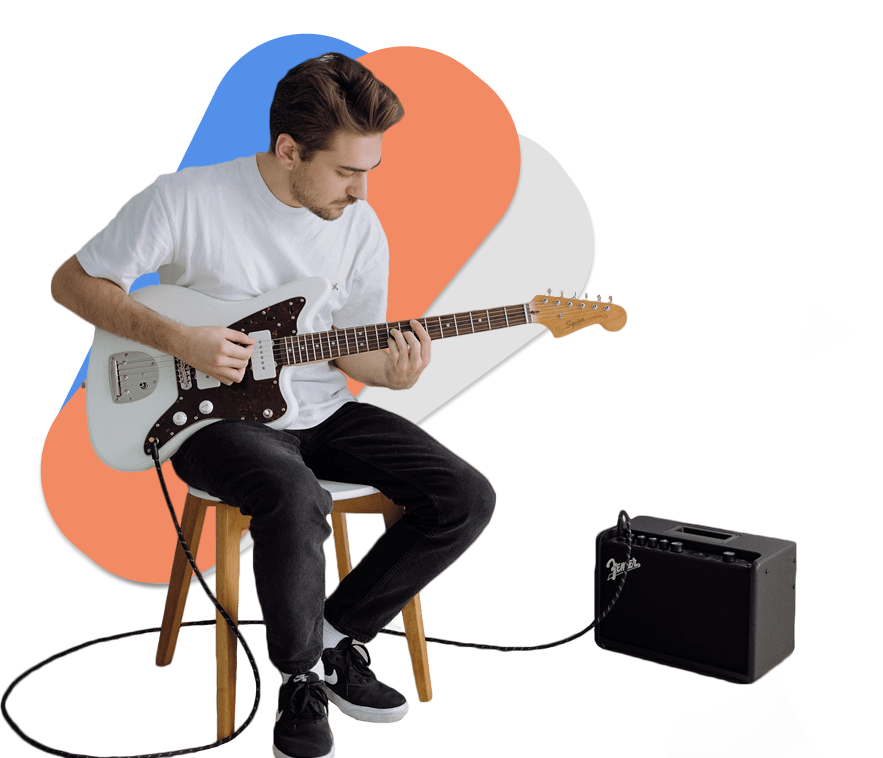
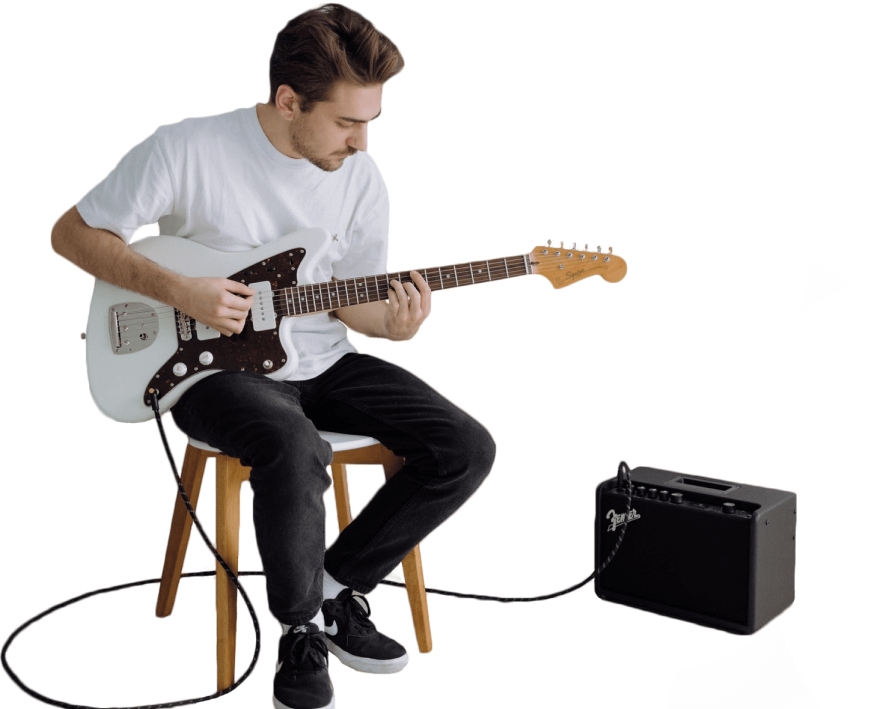
1233

diff --git a/sass/style.sass b/sass/style.sass
@@ -1,7 +1,7 @@
 *
     padding: 0
     margin: 0
-    box-sizing: 0
+    box-sizing: border-box
 
 $color-blue: #5290EA
 $color-orange: #F28B64
@@ -16,6 +16,8 @@ $background-color: #F0F0F0
     min-height: 800px
     background-color: $background-color
     padding-top: 16px
+    z-index: -5
+    position: relative
     &__logo
         width: 152px
     &__nav-container
@@ -23,6 +25,9 @@ $background-color: #F0F0F0
         justify-content: space-between
         align-items: center
         height: 70px
+    &__content-container
+        display: flex  
+
     
 .nav-menu
     &__list
@@ -34,4 +39,41 @@ $background-color: #F0F0F0
         list-style-type: none
     a
         text-decoration: none
-        color: #000000
+
+.left-wrapper
+    position: relative
+    &__rectangle-blue
+        position: absolute
+        height: 220px
+        width: 565.95px
+        background-color: $color-blue
+        transform: rotate(-64deg)
+        top: 200px
+        left: -100px
+        border-radius: 100px
+        filter: drop-shadow(-0.5rem 0.3rem 0.5rem rgba(0, 0, 0, 0.5))
+        z-index: -3
+    &__rectangle-orange
+        position: absolute
+        height: 220px
+        width: 618.43px
+        background-color: $color-orange
+        transform: rotate(-50.81deg)
+        top: 200px
+        left: -100px
+        border-radius: 100px
+        filter: drop-shadow(-0.5rem 0.3rem 0.5rem rgba(0, 0, 0, 0.5))
+    &__rectangle-grey
+        position: absolute
+        height: 220px
+        width: 608.97px
+        background-color: $color-grey
+        transform: rotate(-36.15deg)
+        top: 200px
+        left: -100px
+        border-radius: 100px
+        filter: drop-shadow(-0.5rem 0.3rem 0.5rem rgba(0, 0, 0, 0.5))
+        z-index: -2
+    &__img
+        z-index: 1
+        position: relative

diff --git a/css/style.css b/css/style.css
@@ -1,1 +1,1 @@
-*{padding:0;margin:0;box-sizing:0}.container{max-width:1140px;margin:0 auto}.main-section{min-height:800px;background-color:#f0f0f0;padding-top:16px}.main-section__logo{width:152px}.main-section__nav-container{display:flex;justify-content:space-between;align-items:center;height:70px}.nav-menu__list{display:flex;gap:64px}.nav-menu__list-item{font-size:18px;font-weight:600;list-style-type:none}.nav-menu a{text-decoration:none;color:#000}
+*{padding:0;margin:0;box-sizing:border-box}.container{max-width:1140px;margin:0 auto}.main-section{min-height:800px;background-color:#f0f0f0;padding-top:16px;z-index:-5;position:relative}.main-section__logo{width:152px}.main-section__nav-container{display:flex;justify-content:space-between;align-items:center;height:70px}.main-section__content-container{display:flex}.nav-menu__list{display:flex;gap:64px}.nav-menu__list-item{font-size:18px;font-weight:600;list-style-type:none}.nav-menu a{text-decoration:none}.left-wrapper{position:relative}.left-wrapper__rectangle-blue{position:absolute;height:220px;width:565.95px;background-color:#5290ea;transform:rotate(-64deg);top:200px;left:-100px;border-radius:100px;filter:drop-shadow(-0.5rem 0.3rem 0.5rem rgba(0, 0, 0, 0.5));z-index:-3}.left-wrapper__rectangle-orange{position:absolute;height:220px;width:618.43px;background-color:#f28b64;transform:rotate(-50.81deg);top:200px;left:-100px;border-radius:100px;filter:drop-shadow(-0.5rem 0.3rem 0.5rem rgba(0, 0, 0, 0.5))}.left-wrapper__rectangle-grey{position:absolute;height:220px;width:608.97px;background-color:#e2e2e2;transform:rotate(-36.15deg);top:200px;left:-100px;border-radius:100px;filter:drop-shadow(-0.5rem 0.3rem 0.5rem rgba(0, 0, 0, 0.5));z-index:-2}.left-wrapper__img{z-index:1;position:relative}

diff --git a/index.html b/index.html
@@ -28,6 +28,15 @@
           </ul>
         </nav>
       </div>
+      <div class="container main-section__content-container">
+        <div class="left-wrapper">
+          <img src="/img/guitarist.png" alt="Изображение гитариста" class="left-wrapper__img">
+          <div class="left-wrapper__rectangle-blue"></div>
+          <div class="left-wrapper__rectangle-orange"></div>
+          <div class="left-wrapper__rectangle-grey"></div>
+        </div>
+        <div class="right-wrapper"></div>
+      </div>
     </section>
     <section class="section courses"></section>
     <section class="section-learning"></section>
